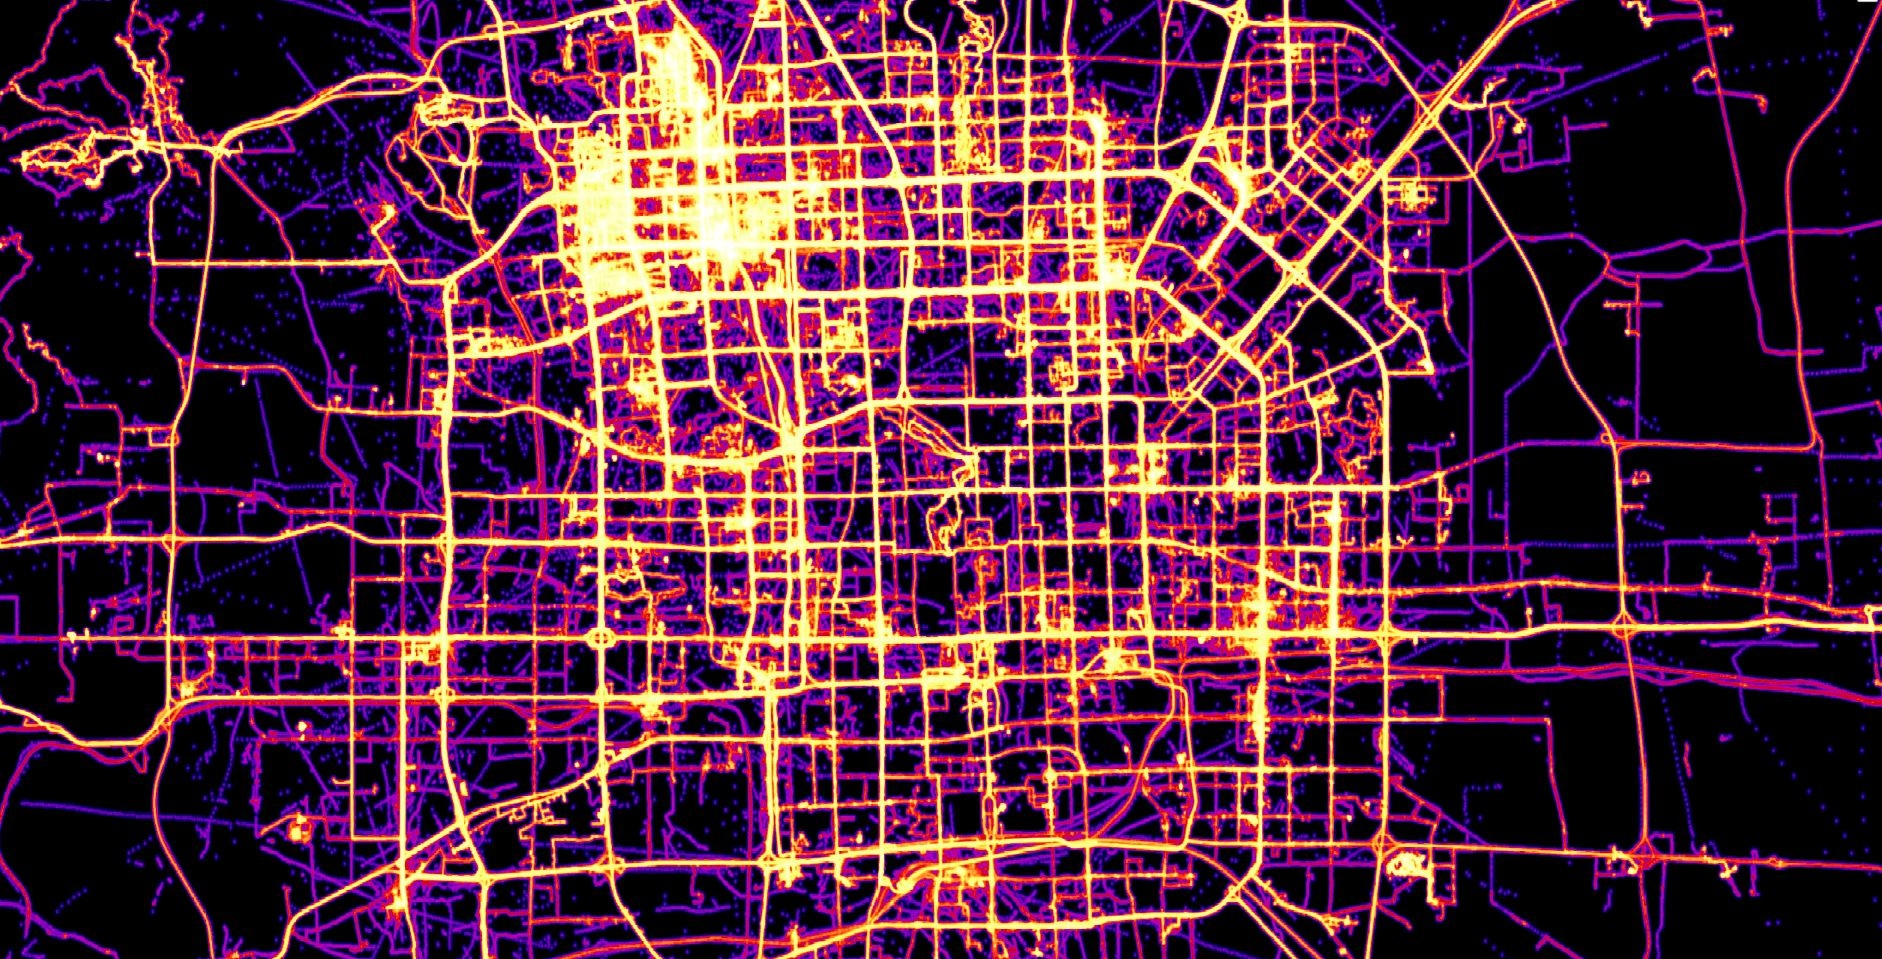
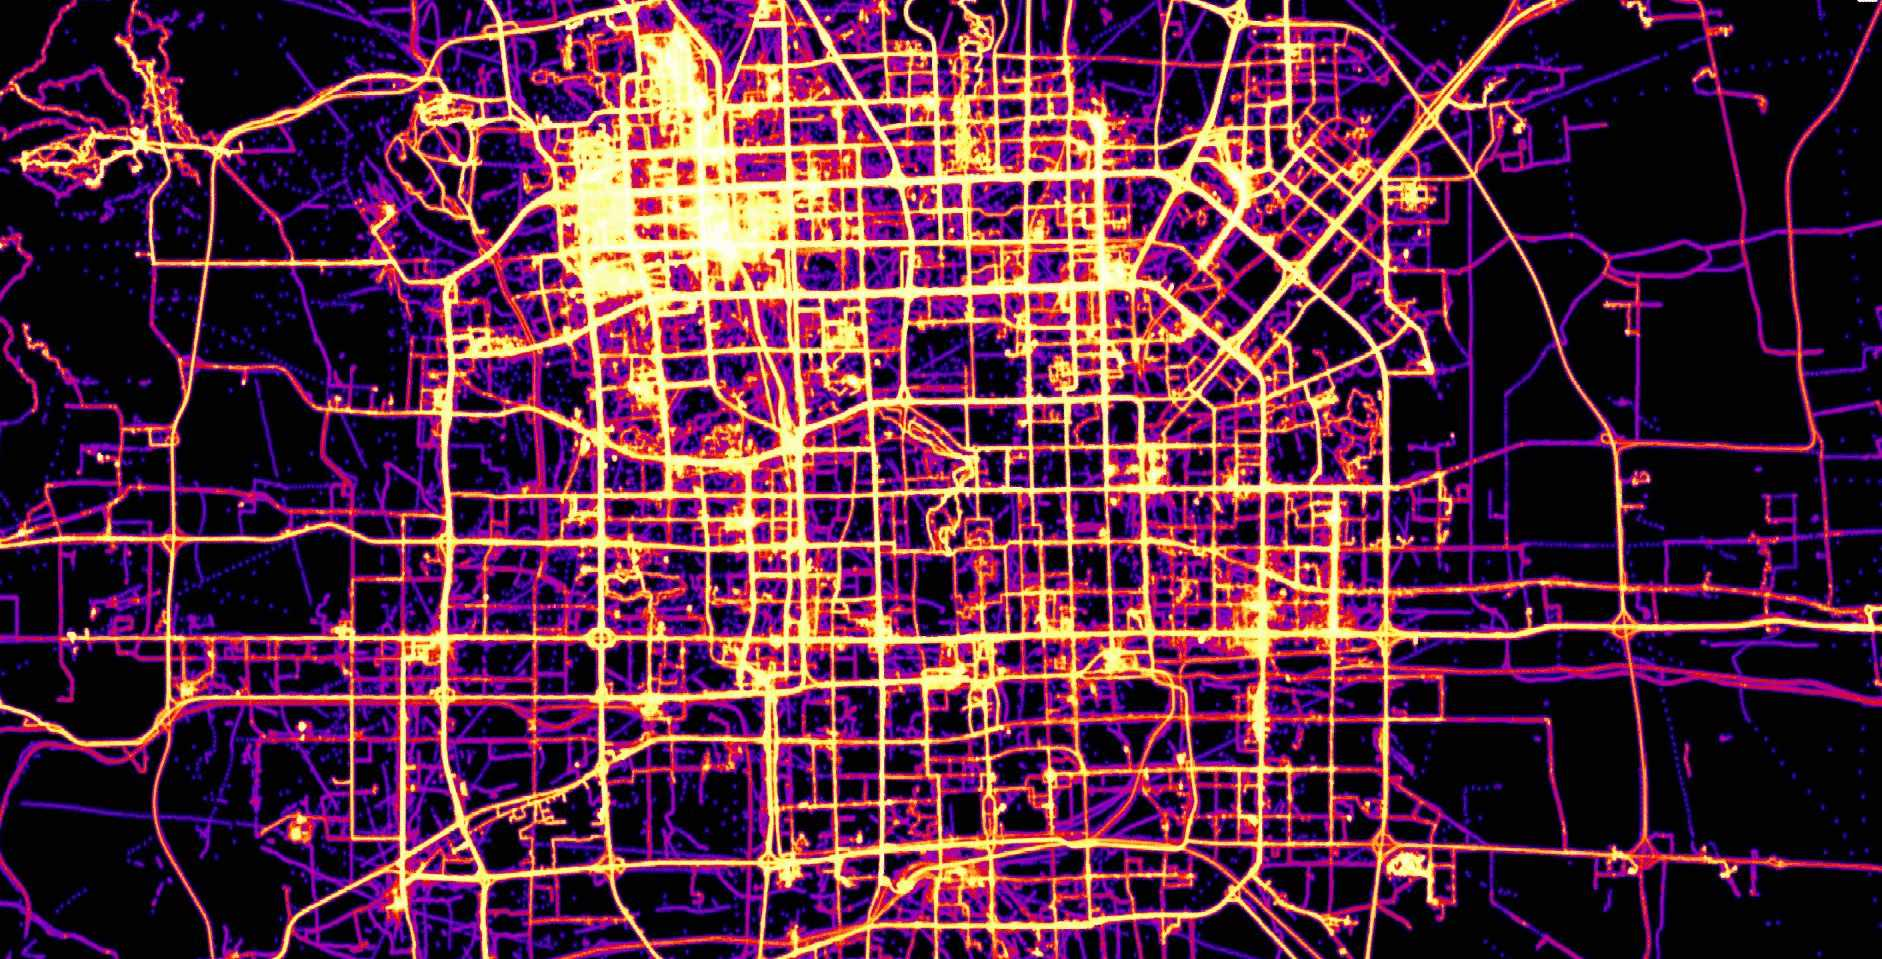
Documentation and web site updates
Reduce size of images used in docs and site
Configure javadoc build to occur during documentation build
Documentation pom updates
Fix RPM download link

diff --git a/docs/content/index.html b/docs/content/index.html
@@ -66,7 +66,7 @@
         </ol>
         <div class="carousel-inner" role="listbox">
             <div class="item active">
-                <img src="images/osmgpx-world.jpg" alt="GeoLife at city scale">
+                <img src="images/osmgpx-world-thumb.jpg" alt="GeoLife at city scale">
                 <div class="container">
                     <div class="carousel-caption panel panel-default">
                         <div class="panel-body">
@@ -77,7 +77,7 @@
                 </div>
             </div>
             <div class="item">
-                <img src="images/geolife-density-17.jpg" alt="GeoLife at house scale">
+                <img src="images/geolife-density-17-thumb.jpg" alt="GeoLife at house scale">
                 <div class="container">
                     <div class="carousel-caption panel panel-default">
                         <div class="panel-body">
@@ -88,7 +88,7 @@
                 </div>
             </div>
             <div class="item">
-                <img src="images/geolife-density-13.jpg" alt="GPX at world scale">
+                <img src="images/geolife-density-13-thumb.jpg" alt="GPX at world scale">
                 <div class="container">
                     <div class="carousel-caption panel panel-default">
                         <div class="panel-body">

diff --git a/docs/content/packages.html b/docs/content/packages.html
@@ -214,7 +214,7 @@
                     if (fileSize !== '0' && !isInSkipList(fileName, _skipList)) {
                         if(startsWith(fileName, eventHash.substring(1))) {
                             buffer.push([
-                                '<a href="' + fileName + '" download="' + baseName(fileName)  + '" target="_blank">' + baseName(fileName) + '</a>',
+                                '<a href="' + _url + fileName + '" download="' + baseName(fileName)  + '" target="_blank">' + baseName(fileName) + '</a>',
                                 $(this).find('LastModified').text(),
                                 filesize($(this).find('Size').text())
                             ]);
